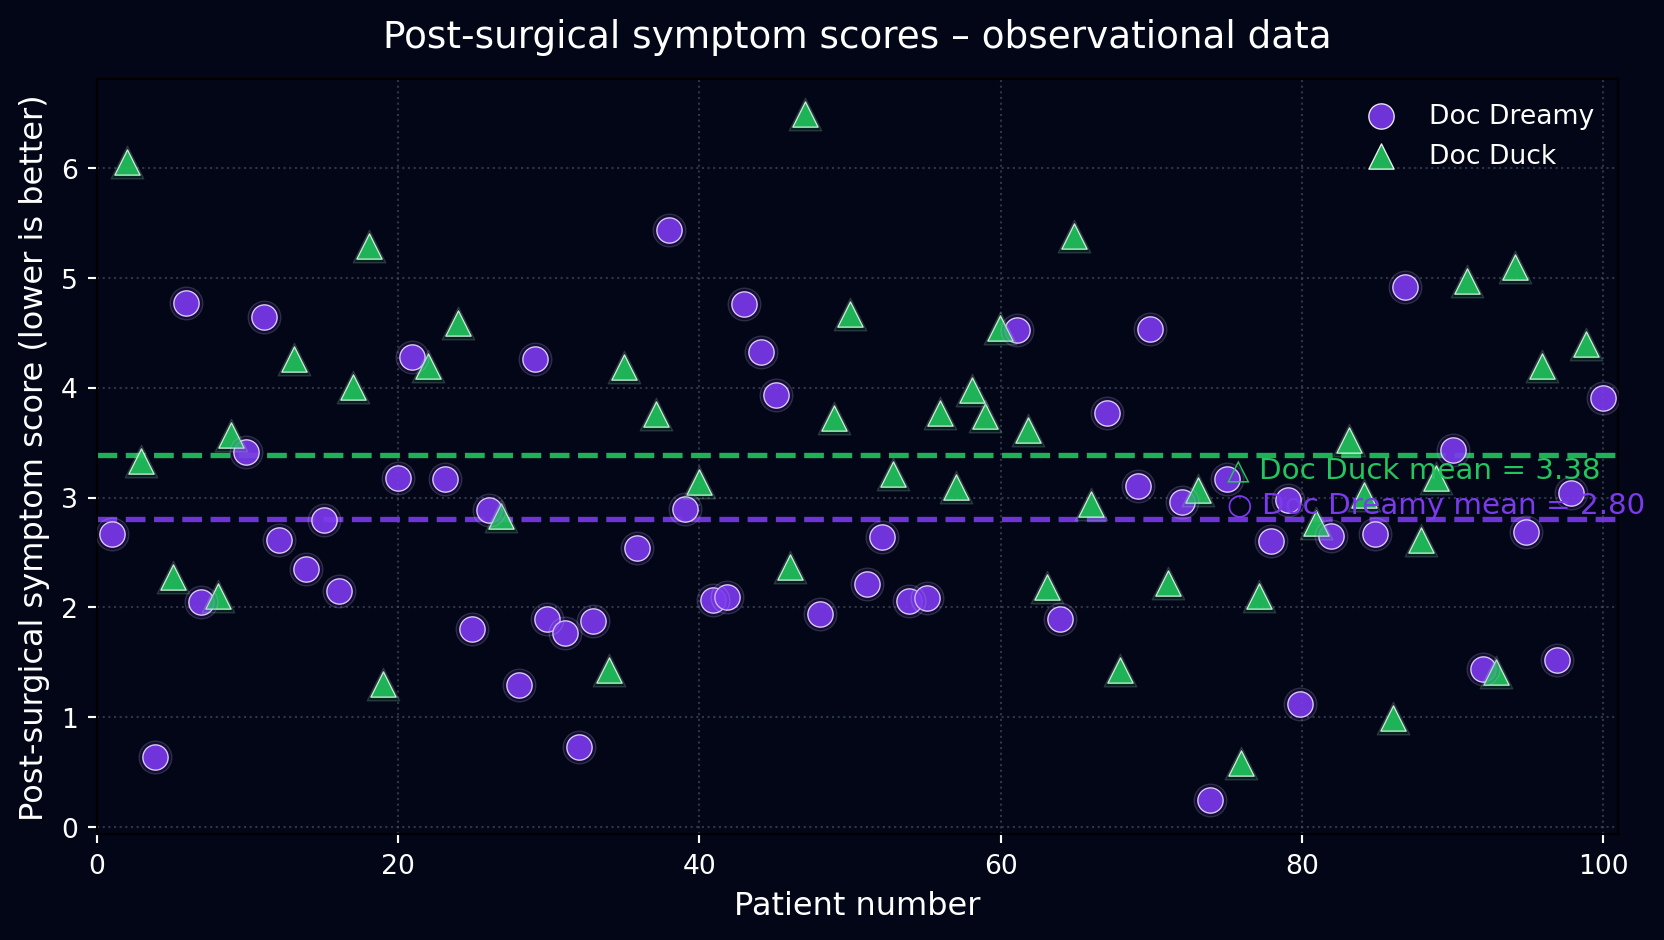
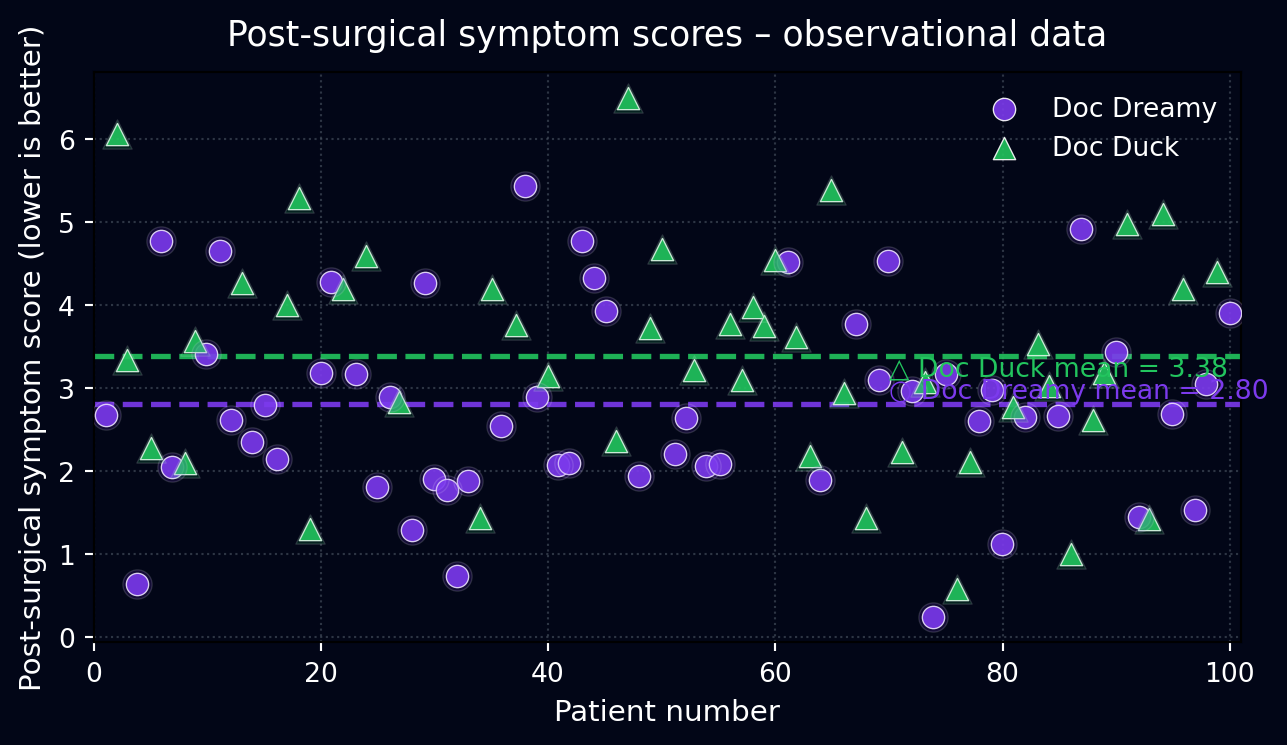
updates to graph

diff --git a/index.html b/index.html
@@ -82,6 +82,12 @@ ul.task-list li input[type="checkbox"] {
 </header>
 
 
+<style>
+.quarto-figure img, img {
+  max-width: 100%;
+  height: auto;
+}
+</style>
 <section id="story-setup-two-surgeons-very-different-looks" class="level2" data-number="1">
 <h2 data-number="1" class="anchored" data-anchor-id="story-setup-two-surgeons-very-different-looks"><span class="header-section-number">1</span> Story Setup: Two Surgeons, Very Different Looks</h2>
 <div style="float: right; margin-left: 15px; margin-bottom: 10px;">
@@ -92,13 +98,13 @@ ul.task-list li input[type="checkbox"] {
 <li><strong>Doc Dreamy</strong> looks exactly how people expect a surgeon to look. Calm, polished, nice office, diplomas on the wall.</li>
 <li><strong>Doc Duck</strong> looks rough. Bigger build, messy office, and not much on the walls.</li>
 </ul>
-<p>Most people would feel safer picking Doc Dreamy. But looks can hide what is really going on in the data. Here we walk through real-looking data for these two doctors and see how a hidden factor can flip the story.</p>
+<p>Most people would feel safer picking Doc Dreamy. But looks can hide what is really going on in the data. Here we walk through data for these two doctors and see how a hidden factor can flip the story.</p>
 </section>
 <section id="data-and-notation" class="level2" data-number="2">
 <h2 data-number="2" class="anchored" data-anchor-id="data-and-notation"><span class="header-section-number">2</span> Data and Notation</h2>
 <p>We work with two data sets:</p>
 <ul>
-<li><strong>Observational data</strong>: patients picked their surgeon in a realistic way (based on looks, waiting time, and personal preference).</li>
+<li><strong>Observational data</strong>: patients picked their surgeon based on real-world factors like looks, waiting time, and personal preference.</li>
 <li><strong>Randomized data</strong>: patients were assigned to surgeons by something like a coin flip.</li>
 </ul>
 <p>The main outcome is:</p>
@@ -125,56 +131,56 @@ Table&nbsp;1
 <div aria-describedby="tbl-observational-summary-caption-0ceaefa1-69ba-4598-a22c-09a6ac19f8ca">
 <div class="cell-output cell-output-display" data-execution_count="2">
 <style type="text/css">
-#T_ea500 th {
+#T_62af9 th {
   background-color: #111827;
   color: white;
   padding: 8px;
 }
-#T_ea500 td {
+#T_62af9 td {
   padding: 6px;
 }
-#T_ea500_row0_col0, #T_ea500_row0_col1, #T_ea500_row0_col3, #T_ea500_row0_col4, #T_ea500_row1_col0, #T_ea500_row1_col1, #T_ea500_row1_col3, #T_ea500_row1_col4 {
+#T_62af9_row0_col0, #T_62af9_row0_col1, #T_62af9_row0_col3, #T_62af9_row0_col4, #T_62af9_row1_col0, #T_62af9_row1_col1, #T_62af9_row1_col3, #T_62af9_row1_col4 {
   text-align: center;
 }
-#T_ea500_row0_col2 {
+#T_62af9_row0_col2 {
   text-align: center;
   background-color: #0d0887;
   color: #f1f1f1;
 }
-#T_ea500_row1_col2 {
+#T_62af9_row1_col2 {
   text-align: center;
   background-color: #f0f921;
   color: #000000;
 }
 </style>
 
-<table id="T_ea500" class="table table-striped table-bordered do-not-create-environment caption-top table-sm small">
+<table id="T_62af9" class="table table-striped table-bordered do-not-create-environment caption-top table-sm small">
 <thead>
 <tr class="header">
 <th class="blank level0" data-quarto-table-cell-role="th">&nbsp;</th>
-<th id="T_ea500_level0_col0" class="col_heading level0 col0" data-quarto-table-cell-role="th">doctor_name</th>
-<th id="T_ea500_level0_col1" class="col_heading level0 col1" data-quarto-table-cell-role="th">n</th>
-<th id="T_ea500_level0_col2" class="col_heading level0 col2" data-quarto-table-cell-role="th">mean_score</th>
-<th id="T_ea500_level0_col3" class="col_heading level0 col3" data-quarto-table-cell-role="th">std_score</th>
-<th id="T_ea500_level0_col4" class="col_heading level0 col4" data-quarto-table-cell-role="th">mean_severity</th>
+<th id="T_62af9_level0_col0" class="col_heading level0 col0" data-quarto-table-cell-role="th">doctor_name</th>
+<th id="T_62af9_level0_col1" class="col_heading level0 col1" data-quarto-table-cell-role="th">n</th>
+<th id="T_62af9_level0_col2" class="col_heading level0 col2" data-quarto-table-cell-role="th">mean_score</th>
+<th id="T_62af9_level0_col3" class="col_heading level0 col3" data-quarto-table-cell-role="th">std_score</th>
+<th id="T_62af9_level0_col4" class="col_heading level0 col4" data-quarto-table-cell-role="th">mean_severity</th>
 </tr>
 </thead>
 <tbody>
 <tr class="odd">
-<th id="T_ea500_level0_row0" class="row_heading level0 row0" data-quarto-table-cell-role="th">0</th>
-<td id="T_ea500_row0_col0" class="data row0 col0">Doc Dreamy</td>
-<td id="T_ea500_row0_col1" class="data row0 col1">54</td>
-<td id="T_ea500_row0_col2" class="data row0 col2">2.80</td>
-<td id="T_ea500_row0_col3" class="data row0 col3">1.18</td>
-<td id="T_ea500_row0_col4" class="data row0 col4">-0.67</td>
+<th id="T_62af9_level0_row0" class="row_heading level0 row0" data-quarto-table-cell-role="th">0</th>
+<td id="T_62af9_row0_col0" class="data row0 col0">Doc Dreamy</td>
+<td id="T_62af9_row0_col1" class="data row0 col1">54</td>
+<td id="T_62af9_row0_col2" class="data row0 col2">2.80</td>
+<td id="T_62af9_row0_col3" class="data row0 col3">1.18</td>
+<td id="T_62af9_row0_col4" class="data row0 col4">-0.67</td>
 </tr>
 <tr class="even">
-<th id="T_ea500_level0_row1" class="row_heading level0 row1" data-quarto-table-cell-role="th">1</th>
-<td id="T_ea500_row1_col0" class="data row1 col0">Doc Duck</td>
-<td id="T_ea500_row1_col1" class="data row1 col1">46</td>
-<td id="T_ea500_row1_col2" class="data row1 col2">3.38</td>
-<td id="T_ea500_row1_col3" class="data row1 col3">1.33</td>
-<td id="T_ea500_row1_col4" class="data row1 col4">0.85</td>
+<th id="T_62af9_level0_row1" class="row_heading level0 row1" data-quarto-table-cell-role="th">1</th>
+<td id="T_62af9_row1_col0" class="data row1 col0">Doc Duck</td>
+<td id="T_62af9_row1_col1" class="data row1 col1">46</td>
+<td id="T_62af9_row1_col2" class="data row1 col2">3.38</td>
+<td id="T_62af9_row1_col3" class="data row1 col3">1.33</td>
+<td id="T_62af9_row1_col4" class="data row1 col4">0.85</td>
 </tr>
 </tbody>
 </table>
@@ -187,12 +193,12 @@ Table&nbsp;1
 </section>
 <section id="figure-1-observational-outcomes-by-patient" class="level3" data-number="3.2">
 <h3 data-number="3.2" class="anchored" data-anchor-id="figure-1-observational-outcomes-by-patient"><span class="header-section-number">3.2</span> Figure 1 – Observational Outcomes by Patient</h3>
-<div id="cell-fig-observational" class="cell" data-fig-height="5" data-fig-width="9" data-execution_count="3">
+<div id="cell-fig-observational" class="cell" data-execution_count="3">
 <div class="cell-output cell-output-display">
-<div id="fig-observational" class="quarto-float quarto-figure quarto-figure-center anchored">
+<div id="fig-observational" class="quarto-float quarto-figure quarto-figure-center anchored" data-fig-align="center">
 <figure class="quarto-float quarto-float-fig figure">
 <div aria-describedby="fig-observational-caption-0ceaefa1-69ba-4598-a22c-09a6ac19f8ca">
-<img src="index_files/figure-html/fig-observational-output-1.png" width="832" height="470" class="figure-img">
+<img src="index_files/figure-html/fig-observational-output-1.png" class="quarto-figure quarto-figure-center figure-img" width="644" height="373">
 </div>
 <figcaption class="quarto-float-caption-bottom quarto-float-caption quarto-float-fig" id="fig-observational-caption-0ceaefa1-69ba-4598-a22c-09a6ac19f8ca">
 Figure&nbsp;1: Observed post-surgical symptom scores for each patient by surgeon.
@@ -260,56 +266,56 @@ Table&nbsp;2
 <div aria-describedby="tbl-randomized-summary-caption-0ceaefa1-69ba-4598-a22c-09a6ac19f8ca">
 <div class="cell-output cell-output-display" data-execution_count="4">
 <style type="text/css">
-#T_01df9 th {
+#T_6371a th {
   background-color: #111827;
   color: white;
   padding: 8px;
 }
-#T_01df9 td {
+#T_6371a td {
   padding: 6px;
 }
-#T_01df9_row0_col0, #T_01df9_row0_col1, #T_01df9_row0_col3, #T_01df9_row0_col4, #T_01df9_row1_col0, #T_01df9_row1_col1, #T_01df9_row1_col3, #T_01df9_row1_col4 {
+#T_6371a_row0_col0, #T_6371a_row0_col1, #T_6371a_row0_col3, #T_6371a_row0_col4, #T_6371a_row1_col0, #T_6371a_row1_col1, #T_6371a_row1_col3, #T_6371a_row1_col4 {
   text-align: center;
 }
-#T_01df9_row0_col2 {
+#T_6371a_row0_col2 {
   text-align: center;
   background-color: #f0f921;
   color: #000000;
 }
-#T_01df9_row1_col2 {
+#T_6371a_row1_col2 {
   text-align: center;
   background-color: #0d0887;
   color: #f1f1f1;
 }
 </style>
 
-<table id="T_01df9" class="table table-striped table-bordered do-not-create-environment caption-top table-sm small">
+<table id="T_6371a" class="table table-striped table-bordered do-not-create-environment caption-top table-sm small">
 <thead>
 <tr class="header">
 <th class="blank level0" data-quarto-table-cell-role="th">&nbsp;</th>
-<th id="T_01df9_level0_col0" class="col_heading level0 col0" data-quarto-table-cell-role="th">doctor_name</th>
-<th id="T_01df9_level0_col1" class="col_heading level0 col1" data-quarto-table-cell-role="th">n</th>
-<th id="T_01df9_level0_col2" class="col_heading level0 col2" data-quarto-table-cell-role="th">mean_score</th>
-<th id="T_01df9_level0_col3" class="col_heading level0 col3" data-quarto-table-cell-role="th">std_score</th>
-<th id="T_01df9_level0_col4" class="col_heading level0 col4" data-quarto-table-cell-role="th">mean_severity</th>
+<th id="T_6371a_level0_col0" class="col_heading level0 col0" data-quarto-table-cell-role="th">doctor_name</th>
+<th id="T_6371a_level0_col1" class="col_heading level0 col1" data-quarto-table-cell-role="th">n</th>
+<th id="T_6371a_level0_col2" class="col_heading level0 col2" data-quarto-table-cell-role="th">mean_score</th>
+<th id="T_6371a_level0_col3" class="col_heading level0 col3" data-quarto-table-cell-role="th">std_score</th>
+<th id="T_6371a_level0_col4" class="col_heading level0 col4" data-quarto-table-cell-role="th">mean_severity</th>
 </tr>
 </thead>
 <tbody>
 <tr class="odd">
-<th id="T_01df9_level0_row0" class="row_heading level0 row0" data-quarto-table-cell-role="th">0</th>
-<td id="T_01df9_row0_col0" class="data row0 col0">Doc Dreamy</td>
-<td id="T_01df9_row0_col1" class="data row0 col1">45</td>
-<td id="T_01df9_row0_col2" class="data row0 col2">3.46</td>
-<td id="T_01df9_row0_col3" class="data row0 col3">1.24</td>
-<td id="T_01df9_row0_col4" class="data row0 col4">0.04</td>
+<th id="T_6371a_level0_row0" class="row_heading level0 row0" data-quarto-table-cell-role="th">0</th>
+<td id="T_6371a_row0_col0" class="data row0 col0">Doc Dreamy</td>
+<td id="T_6371a_row0_col1" class="data row0 col1">45</td>
+<td id="T_6371a_row0_col2" class="data row0 col2">3.46</td>
+<td id="T_6371a_row0_col3" class="data row0 col3">1.24</td>
+<td id="T_6371a_row0_col4" class="data row0 col4">0.04</td>
 </tr>
 <tr class="even">
-<th id="T_01df9_level0_row1" class="row_heading level0 row1" data-quarto-table-cell-role="th">1</th>
-<td id="T_01df9_row1_col0" class="data row1 col0">Doc Duck</td>
-<td id="T_01df9_row1_col1" class="data row1 col1">55</td>
-<td id="T_01df9_row1_col2" class="data row1 col2">2.71</td>
-<td id="T_01df9_row1_col3" class="data row1 col3">1.45</td>
-<td id="T_01df9_row1_col4" class="data row1 col4">0.23</td>
+<th id="T_6371a_level0_row1" class="row_heading level0 row1" data-quarto-table-cell-role="th">1</th>
+<td id="T_6371a_row1_col0" class="data row1 col0">Doc Duck</td>
+<td id="T_6371a_row1_col1" class="data row1 col1">55</td>
+<td id="T_6371a_row1_col2" class="data row1 col2">2.71</td>
+<td id="T_6371a_row1_col3" class="data row1 col3">1.45</td>
+<td id="T_6371a_row1_col4" class="data row1 col4">0.23</td>
 </tr>
 </tbody>
 </table>
@@ -322,12 +328,12 @@ Table&nbsp;2
 </section>
 <section id="figure-2-randomized-outcomes-by-patient" class="level3" data-number="5.2">
 <h3 data-number="5.2" class="anchored" data-anchor-id="figure-2-randomized-outcomes-by-patient"><span class="header-section-number">5.2</span> Figure 2 – Randomized Outcomes by Patient</h3>
-<div id="cell-fig-randomized" class="cell" data-fig-height="5" data-fig-width="9" data-execution_count="5">
+<div id="cell-fig-randomized" class="cell" data-execution_count="5">
 <div class="cell-output cell-output-display">
-<div id="fig-randomized" class="quarto-float quarto-figure quarto-figure-center anchored">
+<div id="fig-randomized" class="quarto-float quarto-figure quarto-figure-center anchored" data-fig-align="center">
 <figure class="quarto-float quarto-float-fig figure">
 <div aria-describedby="fig-randomized-caption-0ceaefa1-69ba-4598-a22c-09a6ac19f8ca">
-<img src="index_files/figure-html/fig-randomized-output-1.png" width="832" height="470" class="figure-img">
+<img src="index_files/figure-html/fig-randomized-output-1.png" class="quarto-figure quarto-figure-center figure-img" width="644" height="373">
 </div>
 <figcaption class="quarto-float-caption-bottom quarto-float-caption quarto-float-fig" id="fig-randomized-caption-0ceaefa1-69ba-4598-a22c-09a6ac19f8ca">
 Figure&nbsp;5: Post-surgical symptom scores under randomized surgeon assignment.
@@ -349,12 +355,12 @@ Figure&nbsp;5: Post-surgical symptom scores under randomized surgeon assignment.
 <p>Here we look at initial severity on the x-axis and post-surgical score on the y-axis, using the observational data.</p>
 <section id="figure-3-outcomes-by-severity-stratified-view" class="level3" data-number="6.1">
 <h3 data-number="6.1" class="anchored" data-anchor-id="figure-3-outcomes-by-severity-stratified-view"><span class="header-section-number">6.1</span> Figure 3 – Outcomes by Severity (Stratified View)</h3>
-<div id="cell-fig-severity" class="cell" data-fig-height="5" data-fig-width="9" data-execution_count="6">
+<div id="cell-fig-severity" class="cell" data-execution_count="6">
 <div class="cell-output cell-output-display">
-<div id="fig-severity" class="quarto-float quarto-figure quarto-figure-center anchored">
+<div id="fig-severity" class="quarto-float quarto-figure quarto-figure-center anchored" data-fig-align="center">
 <figure class="quarto-float quarto-float-fig figure">
 <div aria-describedby="fig-severity-caption-0ceaefa1-69ba-4598-a22c-09a6ac19f8ca">
-<img src="index_files/figure-html/fig-severity-output-1.png" width="855" height="470" class="figure-img">
+<img src="index_files/figure-html/fig-severity-output-1.png" class="quarto-figure quarto-figure-center figure-img" width="661" height="373">
 </div>
 <figcaption class="quarto-float-caption-bottom quarto-float-caption quarto-float-fig" id="fig-severity-caption-0ceaefa1-69ba-4598-a22c-09a6ac19f8ca">
 Figure&nbsp;6: Post-surgical symptom scores versus initial severity, highlighting the region where both surgeons see many patients.
@@ -376,56 +382,56 @@ Table&nbsp;3
 <div aria-describedby="tbl-overlap-summary-caption-0ceaefa1-69ba-4598-a22c-09a6ac19f8ca">
 <div class="cell-output cell-output-display" data-execution_count="7">
 <style type="text/css">
-#T_ab0b1 th {
+#T_b5dcf th {
   background-color: #111827;
   color: white;
   padding: 8px;
 }
-#T_ab0b1 td {
+#T_b5dcf td {
   padding: 6px;
 }
-#T_ab0b1_row0_col0, #T_ab0b1_row0_col1, #T_ab0b1_row0_col3, #T_ab0b1_row0_col4, #T_ab0b1_row1_col0, #T_ab0b1_row1_col1, #T_ab0b1_row1_col3, #T_ab0b1_row1_col4 {
+#T_b5dcf_row0_col0, #T_b5dcf_row0_col1, #T_b5dcf_row0_col3, #T_b5dcf_row0_col4, #T_b5dcf_row1_col0, #T_b5dcf_row1_col1, #T_b5dcf_row1_col3, #T_b5dcf_row1_col4 {
   text-align: center;
 }
-#T_ab0b1_row0_col2 {
+#T_b5dcf_row0_col2 {
   text-align: center;
   background-color: #f0f921;
   color: #000000;
 }
-#T_ab0b1_row1_col2 {
+#T_b5dcf_row1_col2 {
   text-align: center;
   background-color: #0d0887;
   color: #f1f1f1;
 }
 </style>
 
-<table id="T_ab0b1" class="table table-striped table-bordered do-not-create-environment caption-top table-sm small">
+<table id="T_b5dcf" class="table table-striped table-bordered do-not-create-environment caption-top table-sm small">
 <thead>
 <tr class="header">
 <th class="blank level0" data-quarto-table-cell-role="th">&nbsp;</th>
-<th id="T_ab0b1_level0_col0" class="col_heading level0 col0" data-quarto-table-cell-role="th">doctor_name</th>
-<th id="T_ab0b1_level0_col1" class="col_heading level0 col1" data-quarto-table-cell-role="th">n</th>
-<th id="T_ab0b1_level0_col2" class="col_heading level0 col2" data-quarto-table-cell-role="th">mean_score</th>
-<th id="T_ab0b1_level0_col3" class="col_heading level0 col3" data-quarto-table-cell-role="th">std_score</th>
-<th id="T_ab0b1_level0_col4" class="col_heading level0 col4" data-quarto-table-cell-role="th">mean_severity</th>
+<th id="T_b5dcf_level0_col0" class="col_heading level0 col0" data-quarto-table-cell-role="th">doctor_name</th>
+<th id="T_b5dcf_level0_col1" class="col_heading level0 col1" data-quarto-table-cell-role="th">n</th>
+<th id="T_b5dcf_level0_col2" class="col_heading level0 col2" data-quarto-table-cell-role="th">mean_score</th>
+<th id="T_b5dcf_level0_col3" class="col_heading level0 col3" data-quarto-table-cell-role="th">std_score</th>
+<th id="T_b5dcf_level0_col4" class="col_heading level0 col4" data-quarto-table-cell-role="th">mean_severity</th>
 </tr>
 </thead>
 <tbody>
 <tr class="odd">
-<th id="T_ab0b1_level0_row0" class="row_heading level0 row0" data-quarto-table-cell-role="th">0</th>
-<td id="T_ab0b1_row0_col0" class="data row0 col0">Doc Dreamy</td>
-<td id="T_ab0b1_row0_col1" class="data row0 col1">35</td>
-<td id="T_ab0b1_row0_col2" class="data row0 col2">3.23</td>
-<td id="T_ab0b1_row0_col3" class="data row0 col3">1.01</td>
-<td id="T_ab0b1_row0_col4" class="data row0 col4">-0.30</td>
+<th id="T_b5dcf_level0_row0" class="row_heading level0 row0" data-quarto-table-cell-role="th">0</th>
+<td id="T_b5dcf_row0_col0" class="data row0 col0">Doc Dreamy</td>
+<td id="T_b5dcf_row0_col1" class="data row0 col1">35</td>
+<td id="T_b5dcf_row0_col2" class="data row0 col2">3.23</td>
+<td id="T_b5dcf_row0_col3" class="data row0 col3">1.01</td>
+<td id="T_b5dcf_row0_col4" class="data row0 col4">-0.30</td>
 </tr>
 <tr class="even">
-<th id="T_ab0b1_level0_row1" class="row_heading level0 row1" data-quarto-table-cell-role="th">1</th>
-<td id="T_ab0b1_row1_col0" class="data row1 col0">Doc Duck</td>
-<td id="T_ab0b1_row1_col1" class="data row1 col1">21</td>
-<td id="T_ab0b1_row1_col2" class="data row1 col2">2.94</td>
-<td id="T_ab0b1_row1_col3" class="data row1 col3">1.13</td>
-<td id="T_ab0b1_row1_col4" class="data row1 col4">0.32</td>
+<th id="T_b5dcf_level0_row1" class="row_heading level0 row1" data-quarto-table-cell-role="th">1</th>
+<td id="T_b5dcf_row1_col0" class="data row1 col0">Doc Duck</td>
+<td id="T_b5dcf_row1_col1" class="data row1 col1">21</td>
+<td id="T_b5dcf_row1_col2" class="data row1 col2">2.94</td>
+<td id="T_b5dcf_row1_col3" class="data row1 col3">1.13</td>
+<td id="T_b5dcf_row1_col4" class="data row1 col4">0.32</td>
 </tr>
 </tbody>
 </table>
@@ -434,7 +440,7 @@ Table&nbsp;3
 </figure>
 </div>
 </div>
-<p>Now the comparison is made for patients who started with similar severity. This reduces the bias from the common cause.</p>
+<p>Now the comparison is made for patients who started with similar severity. This reduces the bias from the common cause and gives a fairer comparison.</p>
 <p>Within this overlap band, Doc Duck often looks stronger than the raw overall averages suggest.</p>
 </section>
 </section>
@@ -445,7 +451,7 @@ Table&nbsp;3
 <li><strong>Randomization breaks the path from severity to treatment.</strong> In the randomized data, assignment no longer depends on severity, so the difference in averages reflects the effect of the surgeons more directly.</li>
 <li><strong>Stratification is a backup when randomization is not available.</strong> Comparing outcomes within bands of severity helps control the common cause and gives a fairer comparison.</li>
 </ol>
-<p>The three figures and the summary tables together tell the story:</p>
+<p>The three figures and the summary tables together show:</p>
 <ul>
 <li>How a hidden variable (severity) can tilt the numbers.</li>
 <li>How randomization fixes the problem.</li>
